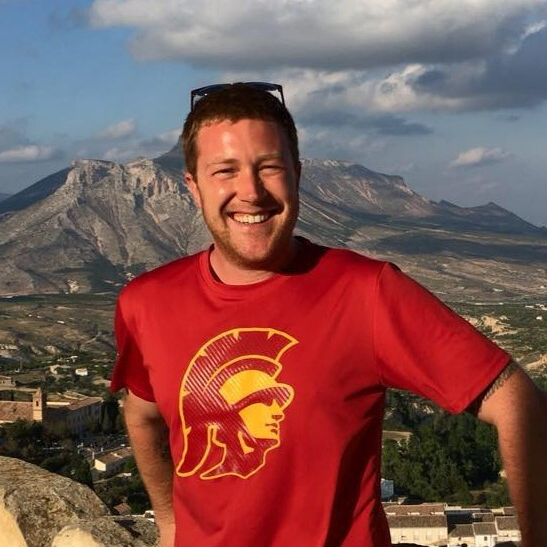
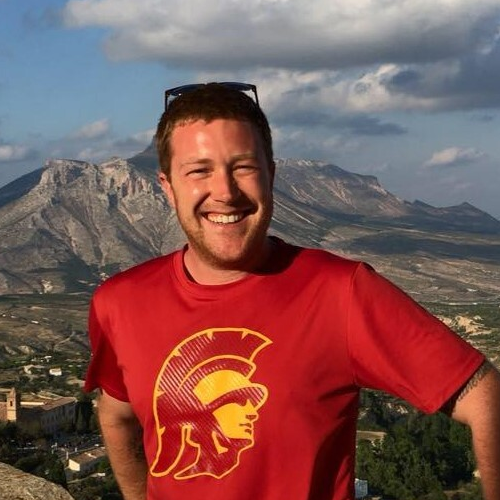
photo cropping and additional volunteers

diff --git a/index.html b/index.html
@@ -67,7 +67,7 @@
       <div class="col">
         <h1>About Us</h1>
         <p class="about-us-blurb-text">
-          We are a group of University of Washington graduate students committed to raising the eSTEAM
+          We are a group of University of Washington students and faculty committed to raising the eSTEAM
           (education in Science, Technology, Engineering, Astrobiology/Art, Mathematics) of incarcerated youth in the
           Seattle area with one-on-one tutoring and exciting hands-on science experiments. We founded eSTEAM to provide
           vital educational support and mentorship to incarcerated students to help them navigate a new path and
@@ -217,6 +217,12 @@
             <p class="volunteer-name"><a class="link-dark">Dr. Natalie Paquette</a></p>
             <p class="volunteer-pronouns mb-1">she/her</p>
             <p class="volunteer-desc">Physics Department Faculty</p>
+          </div>
+          <div class="col-12 col-md-4">
+            <img src="resources/volunteers/cassidy.jpg" class="img-fluid volunteer-picture mb-3">
+            <p class="volunteer-name"><a class="link-dark">Cassidy Johnson</a></p>
+            <p class="volunteer-pronouns mb-1">she/her</p>
+            <p class="volunteer-desc">Undergraduate Student in Astronomy</p>
           </div>
         </div>
       </div>
